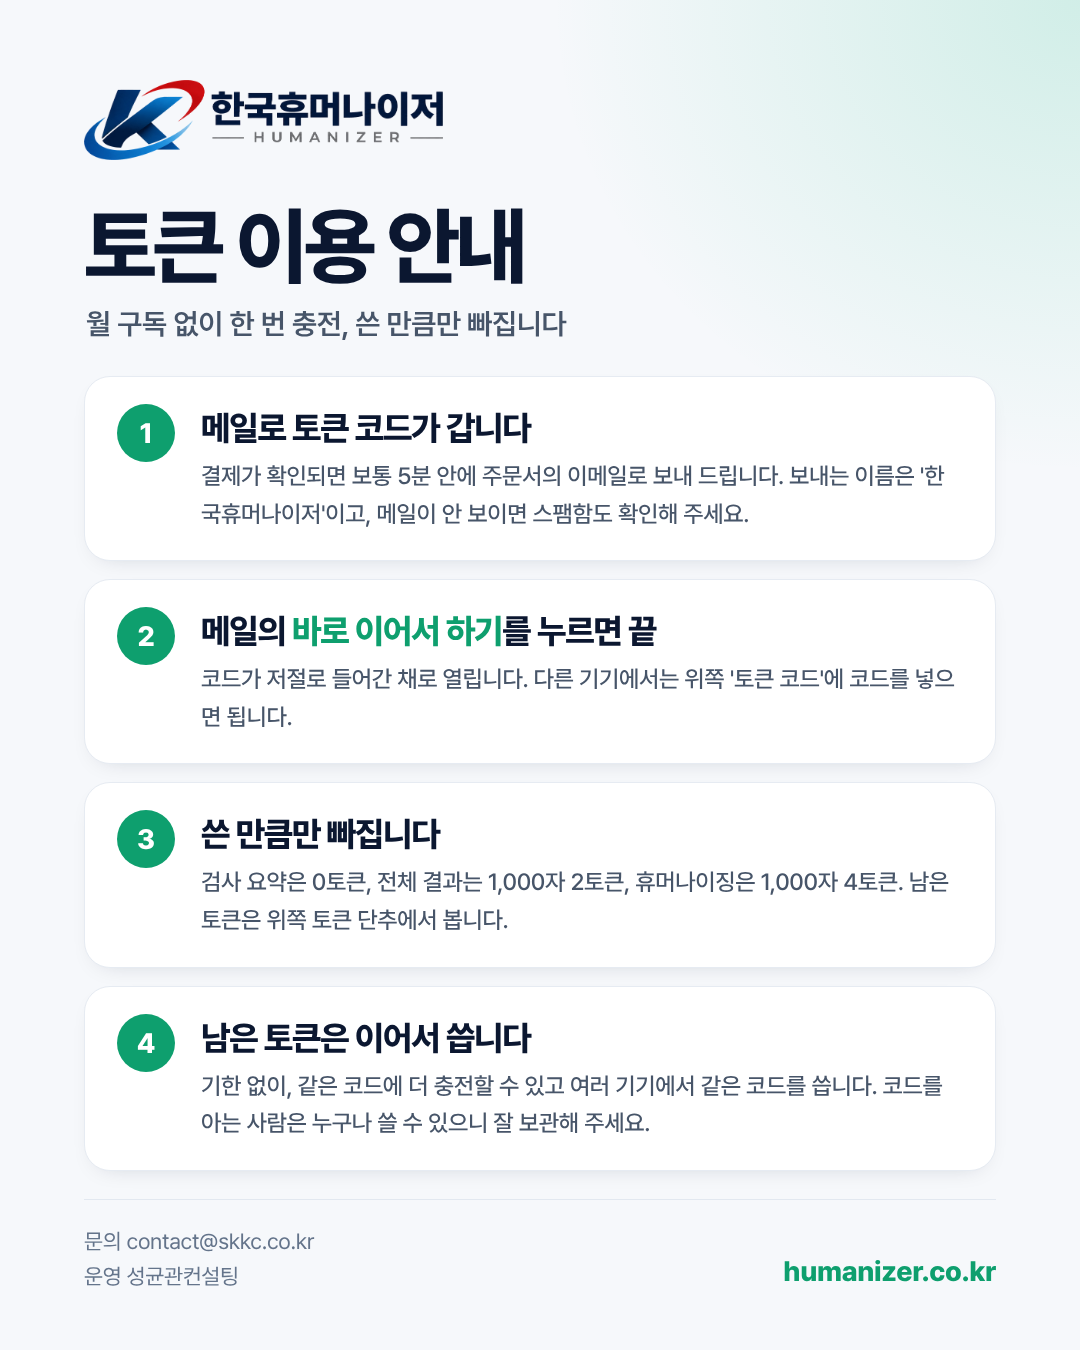
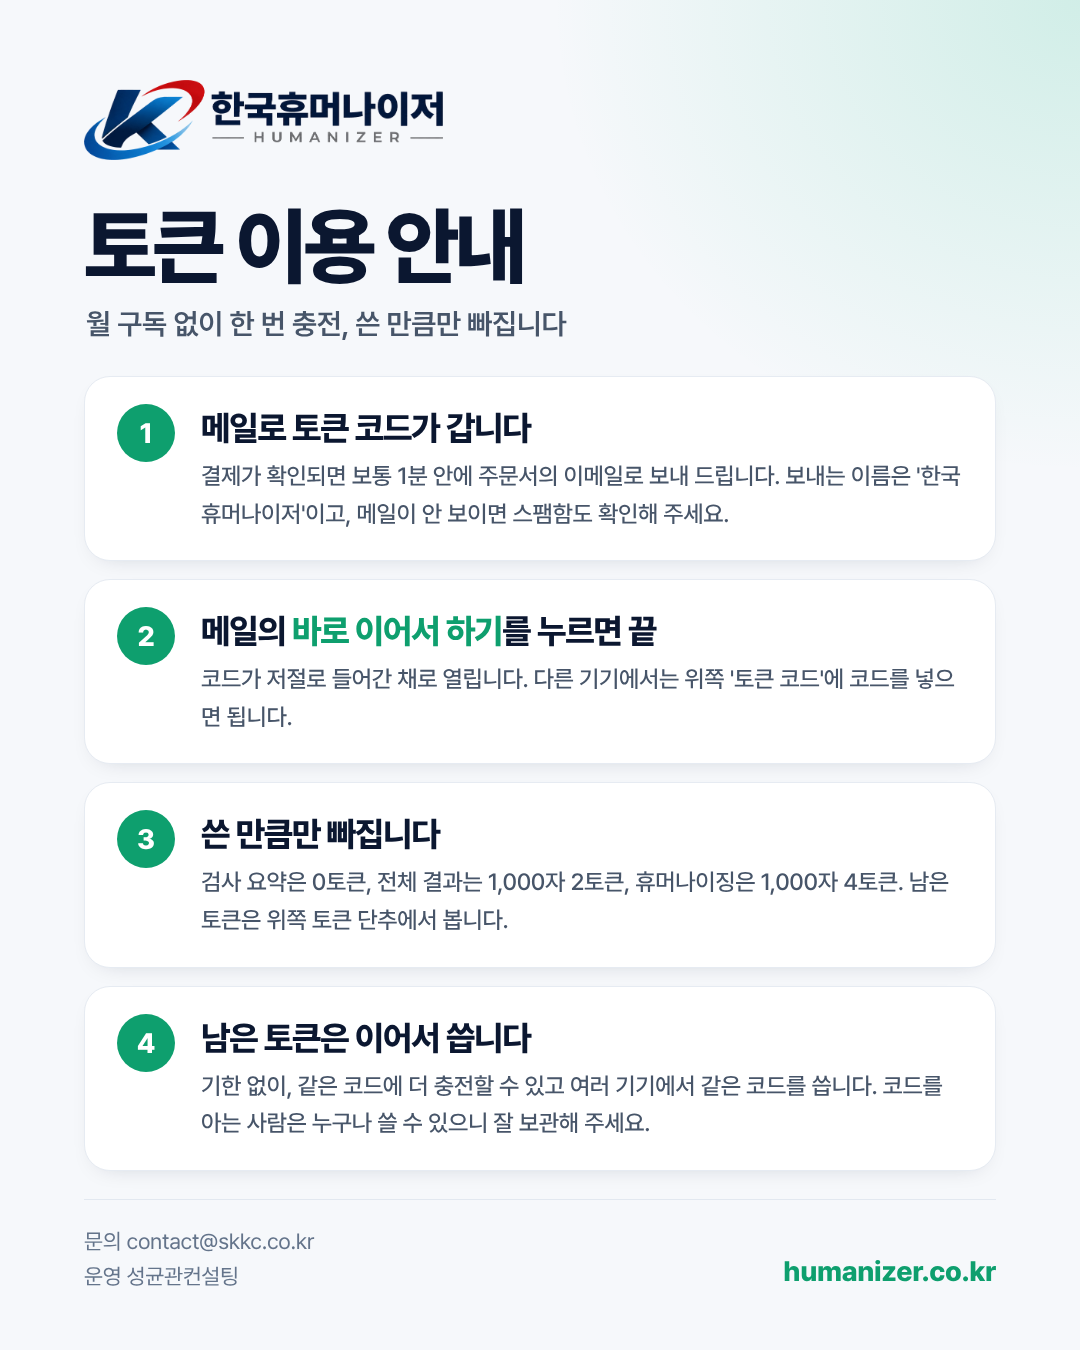
사이트 업데이트
Claude-Session: https://claude.ai/code/session_01S1z1uvEVZqyqauEs4Dd3n3

Changed region(s): [[0.1833, 0.3422, 0.8861, 0.4044], [0.4583, 0.1556, 0.4889, 0.2178], [0.3667, 0.1556, 0.4278, 0.1867]]

diff --git a/_src/shop/render.py b/_src/shop/render.py
@@ -94,7 +94,7 @@ body{width:1200px;height:1200px;background:#fff;position:relative;overflow:hidde
 
 
 GUIDE_STEPS = [
-    ("메일로 토큰 코드가 갑니다", "결제가 확인되면 보통 5분 안에 주문서의 이메일로 보내 드립니다. 보내는 이름은 '한국휴머나이저'이고, 메일이 안 보이면 스팸함도 확인해 주세요."),
+    ("메일로 토큰 코드가 갑니다", "결제가 확인되면 보통 1분 안에 주문서의 이메일로 보내 드립니다. 보내는 이름은 '한국휴머나이저'이고, 메일이 안 보이면 스팸함도 확인해 주세요."),
     ("메일의 <em>바로 이어서 하기</em>를 누르면 끝", "코드가 저절로 들어간 채로 열립니다. 다른 기기에서는 위쪽 '토큰 코드'에 코드를 넣으면 됩니다."),
     ("쓴 만큼만 빠집니다", "검사 요약은 0토큰, 전체 결과는 1,000자 2토큰, 휴머나이징은 1,000자 4토큰. 남은 토큰은 위쪽 토큰 단추에서 봅니다."),
     ("남은 토큰은 이어서 씁니다", "기한 없이, 같은 코드에 더 충전할 수 있고 여러 기기에서 같은 코드를 씁니다. 코드를 아는 사람은 누구나 쓸 수 있으니 잘 보관해 주세요."),
